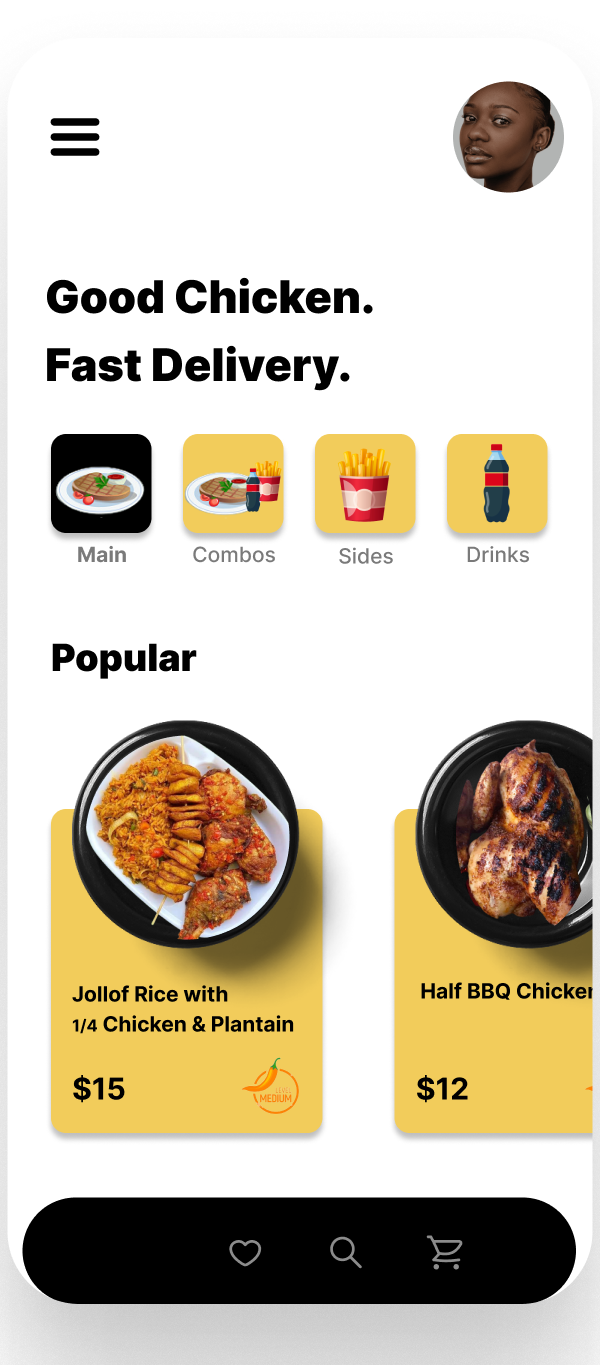
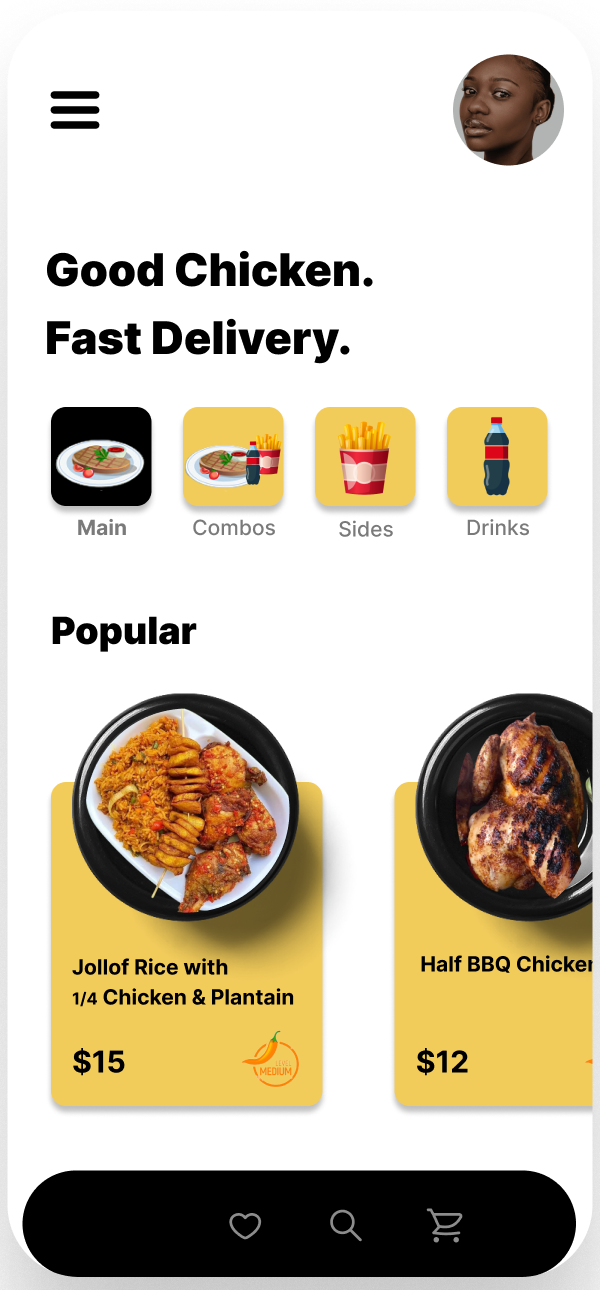
order Section fixed

diff --git a/src/component/GrandSection.jsx b/src/component/GrandSection.jsx
@@ -117,16 +117,15 @@ export default function FoodShowcase() {
       </div>
     </div>
 
-      <div className="relative h-120 px-10 flex flex-col md:flex-row justify-around">
-        <img src={BGIMAGE} alt="Food Ordering Background Image" className="absolute inset-0 w-full h-full object-cover" />
-        <div className="relative z-10 max-w-6xl h-full px-6 flex items-center">
+      <div className="relative h-160 md:h-120 px-5 lg:px-10 flex flex-col md:flex-row justify-around">
+        <img src={BGIMAGE} alt="Food Ordering Background Image" className="absolute inset-0 w-full h-full object-cover object-top-right md:object-cover md:object-center" />
+        <div className="relative z-10 max-w-6xl h-full lg:px-6 flex justify-center items-center">
           <div>
-            <h2 className="text-white text-3xl lg:text-5xl font-semibold leading-tight">Simple Way To <br /> Order Your Foods</h2>
+            <h2 className="text-white text-3xl text-center md:text-left lg:text-5xl font-semibold leading-tight">Simple Way To <br /> Order Your Foods</h2>
 
-            <div className="flex flex-wrap gap-5 mt-12">
-              <button className="group bg-white rounded-xl p-4 flex items-center gap-4 shadow-lg hover:-translate-y-1 transition-all duration-300">
-                
-                <svg width="36" height="40" viewBox="0 0 37 40" fill="none" xmlns="http://www.w3.org/2000/svg" className="shrink-0">
+            <div className="flex flex-wrap justify-center gap-5 mt-12">
+              <button className="group bg-white rounded-xl p-3 md:p-4 flex items-center gap-4 shadow-lg hover:-translate-y-1 transition-all duration-300">
+                <svg viewBox="0 0 37 40" fill="none" xmlns="http://www.w3.org/2000/svg" className="shrink-0 md:h-10 md:w-9 h-5 w-6">
                   <g clipPath="url(#clip0)">
                     <path d="M16.8975 19.0693L0.149414 36.6163C0.337494 37.2829 0.675479 37.8976 1.13753 38.4134C1.59959 38.9293 2.17348 39.3327 2.81534 39.5928C3.45719 39.8529 4.15002 39.9628 4.84086 39.9142C5.5317 39.8655 6.20226 39.6594 6.80129 39.3119L25.6461 28.5792L16.8975 19.0693Z" fill="#EA4335"/>
                     <path d="M33.8337 16.0866L25.6846 11.4189L16.5117 19.4684L25.7219 28.5539L33.809 23.9363C34.5254 23.5611 35.1255 22.9971 35.5441 22.3052C35.9628 21.6133 36.1842 20.8201 36.1842 20.0114C36.1842 19.2027 35.9628 18.4094 35.5441 17.7176C35.1255 17.0257 34.5254 16.4616 33.809 16.0865L33.8337 16.0866Z" fill="#FBBC04"/>
@@ -139,32 +138,31 @@ export default function FoodShowcase() {
                 </svg>
 
                 <div className="text-left">
-                  <p className="text-[10px] uppercase font-medium tracking-wide text-black">Get iton</p>
-                  <h3 className="text-[24px] leading-none font-semibold text-black">Google Play</h3>
+                  <p className="text-[8px] md:text-[10px] uppercase font-medium tracking-wide text-black">Get iton</p>
+                  <h3 className="text-[16px] md:text-[24px] leading-none font-semibold text-black">Google Play</h3>
                 </div>
               </button>
 
-              <button className="group bg-white rounded-xl px-6 py-4 flex items-center gap-4 shadow-lg hover:-translate-y-1 transition-all duration-300">
-                
-                <svg width="30" height="34" viewBox="0 0 26 30" fill="none" xmlns="http://www.w3.org/2000/svg" className="shrink-0" >
+              <button className="group bg-white rounded-xl p-3 flex items-center gap-4 shadow-lg hover:-translate-y-1 transition-all duration-300">
+                <svg viewBox="0 0 26 30" fill="none" xmlns="http://www.w3.org/2000/svg" className="shrink-0 md:h-10 md:w-9 h-5.5 w-6.5" >
                   <path d="M21.0618 28.8C19.4285 30.3833 17.6451 30.1333 15.9285 29.3833C14.1118 28.6167 12.4451 28.5833 10.5285 29.3833C8.12846 30.4167 6.8618 30.1167 5.42846 28.8C-2.70487 20.4167 -1.50487 7.65 7.72846 7.18333C9.97846 7.3 11.5451 8.41667 12.8618 8.51667C14.8285 8.11667 16.7118 6.96667 18.8118 7.11667C21.3285 7.31667 23.2285 8.31667 24.4785 10.1167C19.2785 13.2333 20.5118 20.0833 25.2785 22C24.3285 24.5 23.0951 26.9833 21.0451 28.8167L21.0618 28.8ZM12.6951 7.08333C12.4451 3.36667 15.4618 0.3 18.9285 0C19.4118 4.3 15.0285 7.5 12.6951 7.08333Z" fill="black" />
                 </svg>
 
                 <div className="text-left">
-                  <p className="text-[10px] uppercase font-medium tracking-wide text-black">Get iton</p>
-                  <h3 className="text-[24px] leading-none font-semibold text-black">Apple Store</h3>
+                  <p className="text-[8px] md:text-[10px] uppercase font-medium tracking-wide text-black">Get iton</p>
+                  <h3 className="text-[16px] md:text-[24px] leading-none font-semibold text-black">Apple Store</h3>
                 </div>
               </button>
             </div>
           </div>
         </div>
 
-        <div className="flex mr-20">
+        <div className="flex justify-center md:mr-25 lg:mr-20">
           <img src={Phone1} alt="Food Delivery Home Page Screen"
-            className="w-50 h-130 lg:w-64 lg:h-142 -mt-20 px-1 drop-shadow-[0_20px_50px_rgba(0,0,0,.5)]" />
+            className="w-50 h-80 object-contain sm:object-fill sm:h-100 md:h-130 md:-ml-2 lg:w-64 lg:h-142 md:-mt-20 px-1 drop-shadow-[0_20px_50px_rgba(0,0,0,.5)]" />
 
           <img src={Phone2} alt="Food Delivery Details Page Screen"
-            className="w-50 h-130 lg:w-64 lg:h-140 px-1 drop-shadow-[0_20px_50px_rgba(0,0,0,.5)]" />
+            className="w-50 h-80 object-contain sm:object-fill sm:h-100 md:h-130 lg:w-64 lg:h-140 px-1 drop-shadow-[0_20px_50px_rgba(0,0,0,.5)]" />
         </div>
       </div>
 
